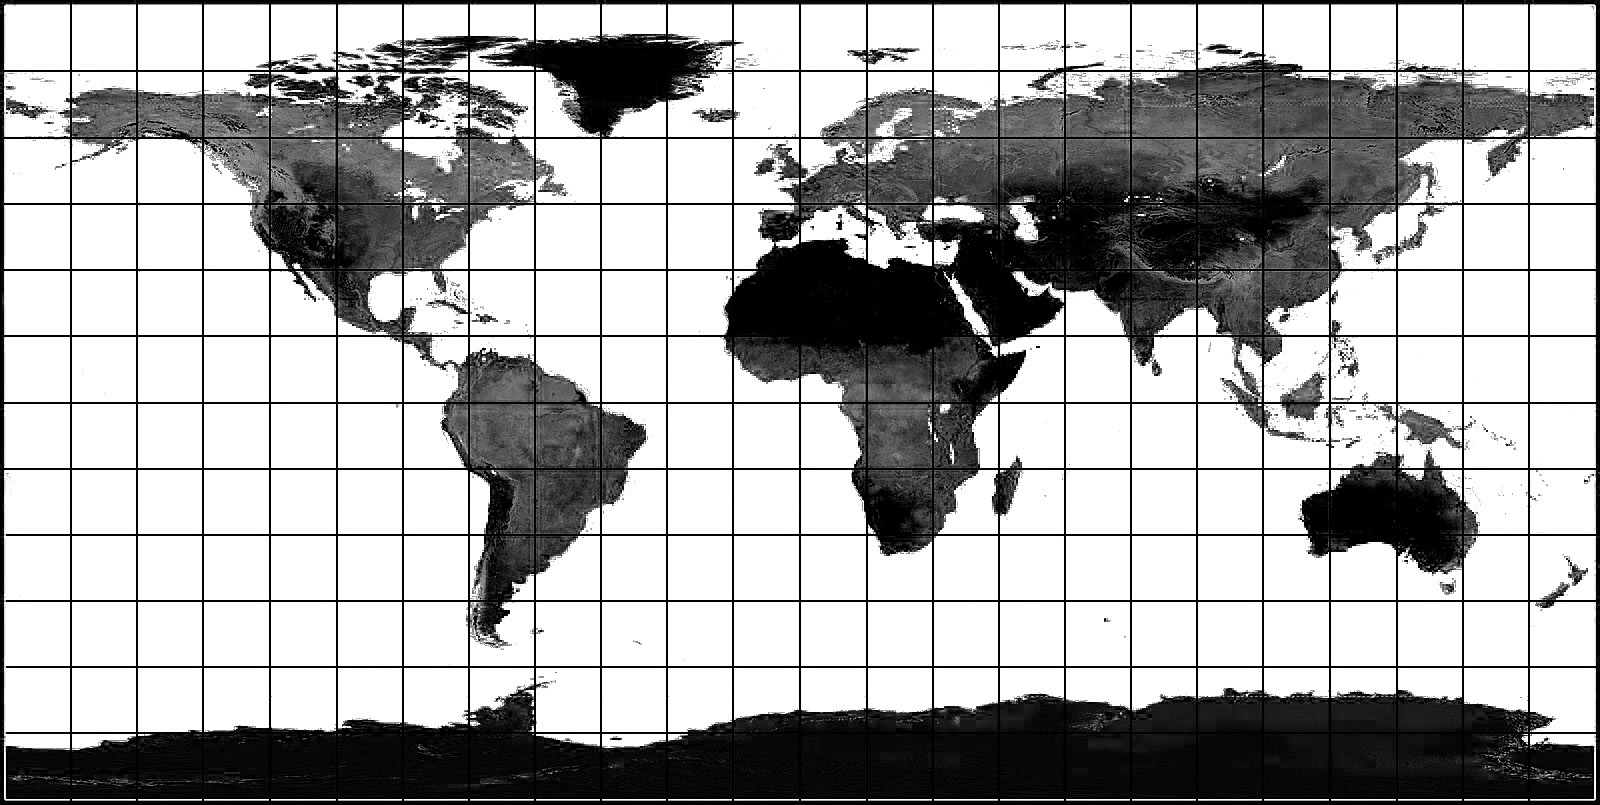
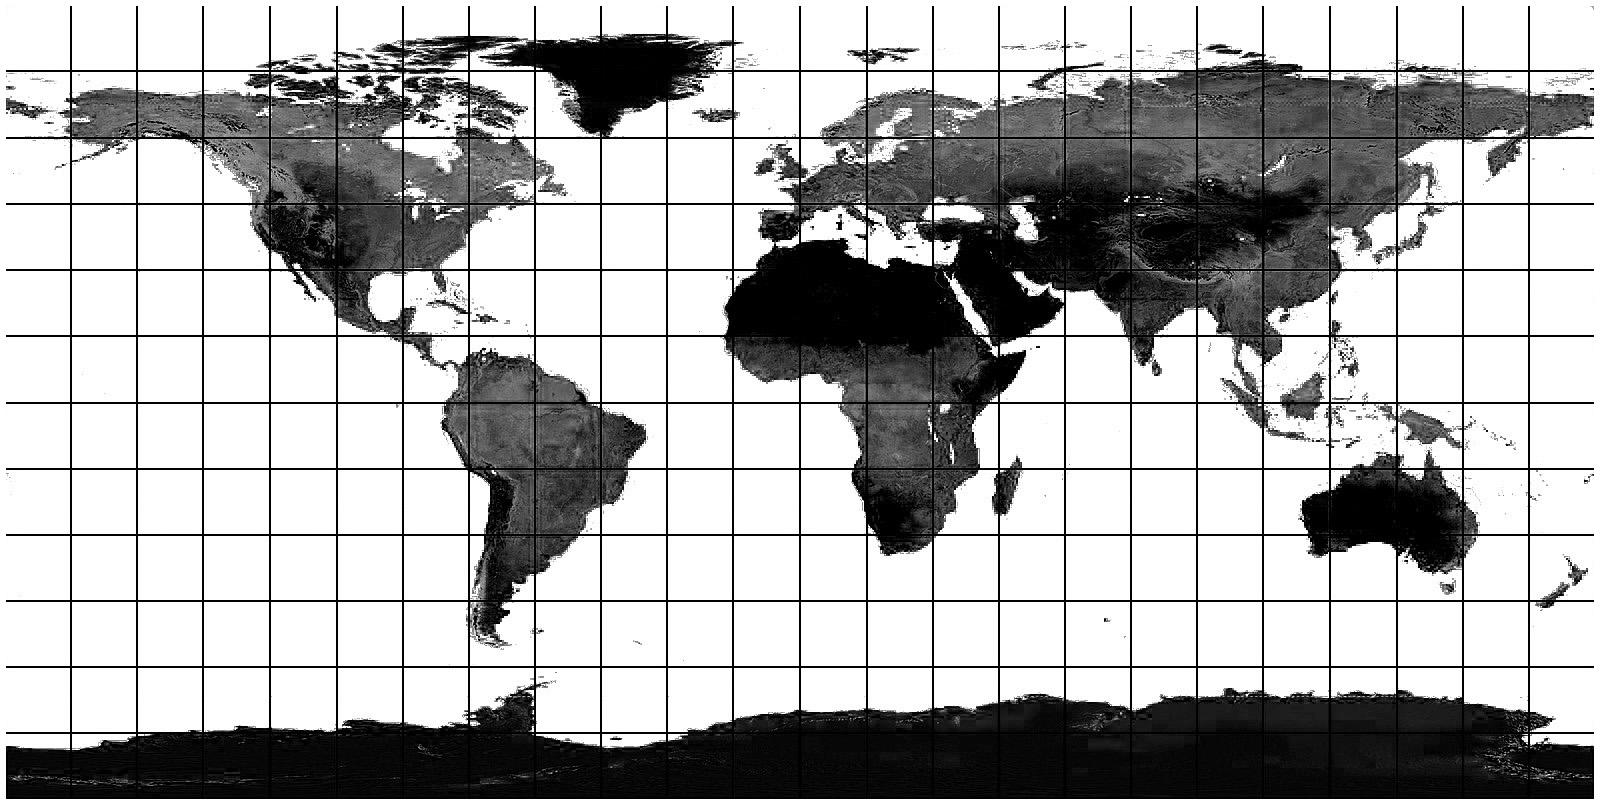
Fasce dollari + grafico piccolo

diff --git a/pages/sketch_detail.js b/pages/sketch_detail.js
@@ -1,7 +1,7 @@
 // ---------- VARIABILI CONFIGURABILI ----------
 let chartXPercent = 0.7;
 let chartYPercent = 0.5;
-let chartSize = 600;
+let chartSize = 500;
 let chartLevels = 4;
 let chartMainColor = "#ff2b00";
 let chartOverlayAlpha = 200;
@@ -321,7 +321,7 @@ function drawNavBar() {
   textFont("Helvetica");
   textStyle(BOLD);
   textAlign(LEFT, CENTER);
-  text("Significant Volcanic Eruptions", 40, navHeight/2);
+  text("<   Back", 40, navHeight/2);
   
   let navLinks = [
     { name: "Homepage", href: "../index.html", x: 0 },
@@ -548,10 +548,10 @@ function getDetailText(value, descCode, type, chartData = null) {
       4: "Very Many (~1001 or more injuries)"
     },
     damage: {
-      1: "Limited (less than $1 million)",
-      2: "Moderate (~$1 to $5 million)",
-      3: "Severe (~$5 to $24 million)",
-      4: "Extreme ($25 million or more)"
+      1: "Limited (less than $2.4 million in 2026 dollars)",
+      2: "Moderate (~$2.4 to $12 million in 2026 dollars)",
+      3: "Severe (~$12 to $57.6 million in 2026 dollars)",
+      4: "Extreme ($60 million or more in 2026 dollars)"
     },
     houses: {
       1: "Few (~1 to 50 houses)",
@@ -805,28 +805,19 @@ function drawImpactChart(d) {
 
   pop(); // Fine del push() iniziale - ora le coordinate tornano a essere assolute
 
-  // TITOLO "Total impact level: " SPOSTATO A DESTRA DELLA MAPPA
-  // Deve essere disegnato DOPO il pop() per usare coordinate assolute della finestra
+  // TITOLO "Total impact level: " TORNATO IN ALTO A DESTRA (posizione originale)
   push();
   noStroke();
   fill(245, 40, 0);
   textSize(chartTitleSize);
-  textAlign(LEFT, CENTER);
+  textAlign(CENTER, CENTER);
   textStyle(BOLD);
   
   let totalImpactText = "Total impact level: " + d.impact;
+  let totalImpactX = 260;  // Posizione originale X
+  let totalImpactY = -310; // Posizione originale Y (sopra il grafico)
   
-  // Calcola la posizione: a destra della mappa
-  let mapMargin = 60;
-  let mapW = 320;
-  let mapX = mapMargin;
-  let mapY = height - 180 - mapMargin;
-  
-  // Posizione a destra della mappa con un po' di margine
-  let totalImpactX = mapX + mapW + 40;
-  let totalImpactY = mapY + 90;
-  
-  text(totalImpactText, totalImpactX, totalImpactY);
+  text(totalImpactText, cx + totalImpactX, cy + totalImpactY);
   
   textStyle(NORMAL);
   pop();
@@ -908,9 +899,12 @@ function formatDamageValue(damageValue) {
   
   let value = convertTo2026Dollars(damageValue);
   
-  if (value < 1) {
-    return `Less than $1 million (2026 dollars)`;
-  } else if (value < 1000) {
+  // Usa le stesse fasce della funzione getDetailText()
+  if (value < 2.4) {
+    return `Less than $2.4 million (2026 dollars)`;
+  } else if (value < 12) {
+    return `$${Math.round(value * 10) / 10} million (2026 dollars)`;
+  } else if (value < 57.6) {
     return `$${Math.round(value * 10) / 10} million (2026 dollars)`;
   } else {
     return `$${(value / 1000).toFixed(1)} billion (2026 dollars)`;

diff --git a/pages/learn_more_detail.html b/pages/learn_more_detail.html
@@ -306,7 +306,7 @@
         const CONFIG = {
             chartXPercent: 0.7,
             chartYPercent: 0.5,
-            chartSize: 600,
+            chartSize: 500,
             chartLevels: 4,
             chartMainColor: "#FFFFF",
             chartOverlayAlpha: 200,
